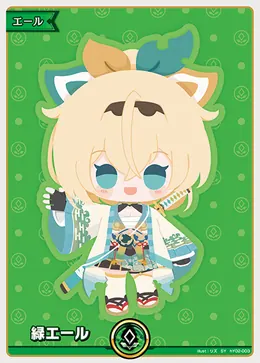
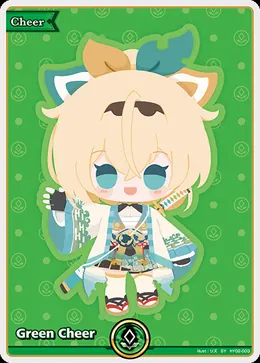
Set 2-6 missing image update
Updating of missing images

diff --git a/script.js b/script.js
@@ -1038,6 +1038,14 @@
     // From ogbajoj hOCG translation sheet — hBP02 pass, 2 gaps filled
     { number: "hBP02-016", name: "白銀ノエル", type: "ホロメン", rarity: "U", color: "白" },
     { number: "hBP02-031", name: "宝鐘マリン", type: "ホロメン", rarity: "U", color: "赤" },
+
+    // Found via image cross-reference — hBP03's own Yell reprints, missing from DB
+    { number: "hY01-004", name: "白エール", type: "エール", rarity: "SY", color: "白" },
+    { number: "hY02-003", name: "緑エール", type: "エール", rarity: "SY", color: "緑" },
+    { number: "hY03-003", name: "赤エール", type: "エール", rarity: "SY", color: "赤" },
+    { number: "hY04-003", name: "青エール", type: "エール", rarity: "SY", color: "青" },
+    { number: "hY05-003", name: "紫エール", type: "エール", rarity: "SY", color: "紫" },
+    { number: "hY06-002", name: "黄エール", type: "エール", rarity: "SY", color: "黄" },
   ];
 
     const ENGLISH_NAMES = {
@@ -1373,6 +1381,310 @@
   }
 
   const CARD_IMAGES = {
+    // Filled in from JPingu's EN-art scans — 35 previously missing Set 6 cards
+    "hBP06-031": "hBP06-031_0.webp",
+    "hBP06-044": "hBP06-044_0.webp",
+    "hBP06-095": "hBP06-095_0.webp",
+    "hBP06-072": "hBP06-072_0.webp",
+    "hBP06-073": "hBP06-073_0.webp",
+    "hBP06-006": "hBP06-006_0.webp",
+    "hBP06-091": "hBP06-091_0.webp",
+    "hBP06-074": "hBP06-074_0.webp",
+    "hBP06-049": "hBP06-049_0.webp",
+    "hBP06-103": "hBP06-103_0.webp",
+    "hBP06-056": "hBP06-056_0.webp",
+    "hBP06-086": "hBP06-086_0.webp",
+    "hBP06-051": "hBP06-051_0.webp",
+    "hBP06-028": "hBP06-028_0.webp",
+    "hBP06-042": "hBP06-042_0.webp",
+    "hBP06-055": "hBP06-055_0.webp",
+    "hBP06-050": "hBP06-050_0.webp",
+    "hBP06-075": "hBP06-075_0.webp",
+    "hBP06-077": "hBP06-077_0.webp",
+    "hBP06-030": "hBP06-030_0.webp",
+    "hBP06-029": "hBP06-029_0.webp",
+    "hBP06-043": "hBP06-043_0.webp",
+    "hBP06-102": "hBP06-102_0.webp",
+    "hBP06-045": "hBP06-045_0.webp",
+    "hBP06-047": "hBP06-047_0.webp",
+    "hBP06-048": "hBP06-048_0.webp",
+    "hBP06-005": "hBP06-005_0.webp",
+    "hBP06-053": "hBP06-053_0.webp",
+    "hBP06-101": "hBP06-101_0.webp",
+    "hBP06-054": "hBP06-054_0.webp",
+    "hBP06-088": "hBP06-088_0.webp",
+    "hBP06-082": "hBP06-082_0.webp",
+    "hBP06-052": "hBP06-052_0.webp",
+    "hBP06-076": "hBP06-076_0.webp",
+    "hBP06-008": "hBP06-008_0.webp",
+    // Filled in from JPingu's EN-art scans — 71 previously missing Set 5 cards (1 UR-rarity file skipped, out of scope)
+    "hBP05-021": "hBP05-021_0.webp",
+    "hBP05-072": "hBP05-072_0.webp",
+    "hBP05-042": "hBP05-042_0.webp",
+    "hBP05-001": "hBP05-001_0.webp",
+    "hBP05-061": "hBP05-061_0.webp",
+    "hBP05-005": "hBP05-005_0.webp",
+    "hBP05-044": "hBP05-044_0.webp",
+    "hBP05-022": "hBP05-022_0.webp",
+    "hBP05-024": "hBP05-024_0.webp",
+    "hBP05-067": "hBP05-067_0.webp",
+    "hBP05-085": "hBP05-085_0.webp",
+    "hBP05-066": "hBP05-066_0.webp",
+    "hBP05-073": "hBP05-073_0.webp",
+    "hBP05-048": "hBP05-048_0.webp",
+    "hBP05-056": "hBP05-056_0.webp",
+    "hBP05-070": "hBP05-070_0.webp",
+    "hBP05-051": "hBP05-051_0.webp",
+    "hBP05-036": "hBP05-036_0.webp",
+    "hBP05-004": "hBP05-004_0.webp",
+    "hBP05-011": "hBP05-011_0.webp",
+    "hBP05-052": "hBP05-052_0.webp",
+    "hBP05-020": "hBP05-020_0.webp",
+    "hBP05-065": "hBP05-065_0.webp",
+    "hBP05-062": "hBP05-062_0.webp",
+    "hBP05-009": "hBP05-009_0.webp",
+    "hBP05-054": "hBP05-054_0.webp",
+    "hBP05-028": "hBP05-028_0.webp",
+    "hBP05-040": "hBP05-040_0.webp",
+    "hBP05-069": "hBP05-069_0.webp",
+    "hBP05-007": "hBP05-007_0.webp",
+    "hBP05-068": "hBP05-068_0.webp",
+    "hBP05-077": "hBP05-077_0.webp",
+    "hBP05-023": "hBP05-023_0.webp",
+    "hBP05-050": "hBP05-050_0.webp",
+    "hBP05-010": "hBP05-010_0.webp",
+    "hBP05-063": "hBP05-063_0.webp",
+    "hBP05-058": "hBP05-058_0.webp",
+    "hBP05-038": "hBP05-038_0.webp",
+    "hBP05-041": "hBP05-041_0.webp",
+    "hBP05-057": "hBP05-057_0.webp",
+    "hBP05-026": "hBP05-026_0.webp",
+    "hBP05-002": "hBP05-002_0.webp",
+    "hBP05-046": "hBP05-046_0.webp",
+    "hBP05-081": "hBP05-081_0.webp",
+    "hBP05-027": "hBP05-027_0.webp",
+    "hBP05-087": "hBP05-087_0.webp",
+    "hBP05-014": "hBP05-014_0.webp",
+    "hBP05-012": "hBP05-012_0.webp",
+    "hBP05-082": "hBP05-082_0.webp",
+    "hBP05-078": "hBP05-078_0.webp",
+    "hBP05-017": "hBP05-017_0.webp",
+    "hBP05-059": "hBP05-059_0.webp",
+    "hBP05-008": "hBP05-008_0.webp",
+    "hBP05-037": "hBP05-037_0.webp",
+    "hBP05-035": "hBP05-035_0.webp",
+    "hBP05-049": "hBP05-049_0.webp",
+    "hBP05-015": "hBP05-015_0.webp",
+    "hBP05-047": "hBP05-047_0.webp",
+    "hBP05-019": "hBP05-019_0.webp",
+    "hBP05-076": "hBP05-076_0.webp",
+    "hBP05-053": "hBP05-053_0.webp",
+    "hBP05-084": "hBP05-084_0.webp",
+    "hBP05-055": "hBP05-055_0.webp",
+    "hBP05-043": "hBP05-043_0.webp",
+    "hBP05-006": "hBP05-006_0.webp",
+    "hBP05-086": "hBP05-086_0.webp",
+    "hBP05-025": "hBP05-025_0.webp",
+    "hBP05-039": "hBP05-039_0.webp",
+    "hBP05-060": "hBP05-060_0.webp",
+    "hBP05-083": "hBP05-083_0.webp",
+    "hBP05-045": "hBP05-045_0.webp",
+    // Filled in from JPingu's EN-art scans — 51 previously missing Set 4 cards
+    "hBP04-007": "hBP04-007_0.webp",
+    "hBP04-102": "hBP04-102_0.webp",
+    "hBP04-037": "hBP04-037_0.webp",
+    "hBP04-039": "hBP04-039_0.webp",
+    "hBP04-042": "hBP04-042_0.webp",
+    "hBP04-099": "hBP04-099_0.webp",
+    "hBP04-036": "hBP04-036_0.webp",
+    "hBP04-064": "hBP04-064_0.webp",
+    "hBP04-035": "hBP04-035_0.webp",
+    "hBP04-041": "hBP04-041_0.webp",
+    "hBP04-078": "hBP04-078_0.webp",
+    "hBP04-051": "hBP04-051_0.webp",
+    "hBP04-074": "hBP04-074_0.webp",
+    "hBP04-065": "hBP04-065_0.webp",
+    "hBP04-045": "hBP04-045_0.webp",
+    "hBP04-046": "hBP04-046_0.webp",
+    "hBP04-095": "hBP04-095_0.webp",
+    "hBP04-077": "hBP04-077_0.webp",
+    "hBP04-106": "hBP04-106_0.webp",
+    "hBP04-061": "hBP04-061_0.webp",
+    "hBP04-066": "hBP04-066_0.webp",
+    "hBP04-003": "hBP04-003_0.webp",
+    "hBP04-092": "hBP04-092_0.webp",
+    "hBP04-060": "hBP04-060_0.webp",
+    "hBP04-048": "hBP04-048_0.webp",
+    "hBP04-047": "hBP04-047_0.webp",
+    "hBP04-075": "hBP04-075_0.webp",
+    "hBP04-032": "hBP04-032_0.webp",
+    "hBP04-091": "hBP04-091_0.webp",
+    "hBP04-096": "hBP04-096_0.webp",
+    "hBP04-049": "hBP04-049_0.webp",
+    "hBP04-044": "hBP04-044_0.webp",
+    "hBP04-093": "hBP04-093_0.webp",
+    "hBP04-090": "hBP04-090_0.webp",
+    "hBP04-079": "hBP04-079_0.webp",
+    "hBP04-004": "hBP04-004_0.webp",
+    "hBP04-063": "hBP04-063_0.webp",
+    "hBP04-087": "hBP04-087_0.webp",
+    "hBP04-101": "hBP04-101_0.webp",
+    "hBP04-098": "hBP04-098_0.webp",
+    "hBP04-043": "hBP04-043_0.webp",
+    "hBP04-076": "hBP04-076_0.webp",
+    "hBP04-081": "hBP04-081_0.webp",
+    "hBP04-082": "hBP04-082_0.webp",
+    "hBP04-040": "hBP04-040_0.webp",
+    "hBP04-073": "hBP04-073_0.webp",
+    "hBP04-033": "hBP04-033_0.webp",
+    "hBP04-052": "hBP04-052_0.webp",
+    "hBP04-014": "hBP04-014_0.webp",
+    "hBP04-080": "hBP04-080_0.webp",
+    "hBP04-034": "hBP04-034_0.webp",
+    // Filled in from JPingu's EN-art scans — 84 previously missing Set 3 cards (incl. 6 newly-added Yell cards)
+    "hBP03-092": "hBP03-092_0.webp",
+    "hBP03-039": "hBP03-039_0.webp",
+    "hBP03-007": "hBP03-007_0.webp",
+    "hBP03-112": "hBP03-112_0.webp",
+    "hBP03-019": "hBP03-019_0.webp",
+    "hBP03-044": "hBP03-044_0.webp",
+    "hBP03-071": "hBP03-071_0.webp",
+    "hBP03-047": "hBP03-047_0.webp",
+    "hBP03-075": "hBP03-075_0.webp",
+    "hBP03-036": "hBP03-036_0.webp",
+    "hY01-004": "hY01-004_0.webp",
+    "hBP03-099": "hBP03-099_0.webp",
+    "hBP03-085": "hBP03-085_0.webp",
+    "hBP03-101": "hBP03-101_0.webp",
+    "hBP03-107": "hBP03-107_0.webp",
+    "hBP03-043": "hBP03-043_0.webp",
+    "hBP03-095": "hBP03-095_0.webp",
+    "hBP03-012": "hBP03-012_0.webp",
+    "hBP03-046": "hBP03-046_0.webp",
+    "hY05-003": "hY05-003_0.webp",
+    "hBP03-111": "hBP03-111_0.webp",
+    "hBP03-021": "hBP03-021_0.webp",
+    "hBP03-104": "hBP03-104_0.webp",
+    "hBP03-023": "hBP03-023_0.webp",
+    "hBP03-048": "hBP03-048_0.webp",
+    "hBP03-086": "hBP03-086_0.webp",
+    "hBP03-053": "hBP03-053_0.webp",
+    "hBP03-076": "hBP03-076_0.webp",
+    "hBP03-089": "hBP03-089_0.webp",
+    "hBP03-016": "hBP03-016_0.webp",
+    "hBP03-008": "hBP03-008_0.webp",
+    "hBP03-103": "hBP03-103_0.webp",
+    "hBP03-064": "hBP03-064_0.webp",
+    "hBP03-093": "hBP03-093_0.webp",
+    "hBP03-013": "hBP03-013_0.webp",
+    "hBP03-072": "hBP03-072_0.webp",
+    "hBP03-074": "hBP03-074_0.webp",
+    "hBP03-113": "hBP03-113_0.webp",
+    "hBP03-026": "hBP03-026_0.webp",
+    "hBP03-020": "hBP03-020_0.webp",
+    "hBP03-106": "hBP03-106_0.webp",
+    "hBP03-052": "hBP03-052_0.webp",
+    "hBP03-018": "hBP03-018_0.webp",
+    "hBP03-045": "hBP03-045_0.webp",
+    "hBP03-105": "hBP03-105_0.webp",
+    "hY06-002": "hY06-002_0.webp",
+    "hBP03-011": "hBP03-011_0.webp",
+    "hY04-003": "hY04-003_0.webp",
+    "hBP03-022": "hBP03-022_0.webp",
+    "hBP03-041": "hBP03-041_0.webp",
+    "hBP03-004": "hBP03-004_0.webp",
+    "hBP03-029": "hBP03-029_0.webp",
+    "hBP03-009": "hBP03-009_0.webp",
+    "hBP03-098": "hBP03-098_0.webp",
+    "hBP03-078": "hBP03-078_0.webp",
+    "hBP03-003": "hBP03-003_0.webp",
+    "hBP03-051": "hBP03-051_0.webp",
+    "hY03-003": "hY03-003_0.webp",
+    "hBP03-028": "hBP03-028_0.webp",
+    "hBP03-069": "hBP03-069_0.webp",
+    "hBP03-077": "hBP03-077_0.webp",
+    "hBP03-014": "hBP03-014_0.webp",
+    "hBP03-068": "hBP03-068_0.webp",
+    "hBP03-010": "hBP03-010_0.webp",
+    "hBP03-073": "hBP03-073_0.webp",
+    "hBP03-015": "hBP03-015_0.webp",
+    "hBP03-087": "hBP03-087_0.webp",
+    "hBP03-094": "hBP03-094_0.webp",
+    "hBP03-027": "hBP03-027_0.webp",
+    "hBP03-001": "hBP03-001_0.webp",
+    "hBP03-096": "hBP03-096_0.webp",
+    "hBP03-054": "hBP03-054_0.webp",
+    "hBP03-084": "hBP03-084_0.webp",
+    "hBP03-025": "hBP03-025_0.webp",
+    "hY02-003": "hY02-003_0.webp",
+    "hBP03-091": "hBP03-091_0.webp",
+    "hBP03-017": "hBP03-017_0.webp",
+    "hBP03-055": "hBP03-055_0.webp",
+    "hBP03-079": "hBP03-079_0.webp",
+    "hBP03-030": "hBP03-030_0.webp",
+    "hBP03-049": "hBP03-049_0.webp",
+    "hBP03-056": "hBP03-056_0.webp",
+    "hBP03-002": "hBP03-002_0.webp",
+    "hBP03-005": "hBP03-005_0.webp",
+    // Filled in from JPingu's EN-art scans — 58 previously missing Set 2 cards
+    "hBP02-069": "hBP02-069_0.webp",
+    "hBP02-016": "hBP02-016_0.webp",
+    "hBP02-042": "hBP02-042_0.webp",
+    "hBP02-068": "hBP02-068_0.webp",
+    "hBP02-037": "hBP02-037_0.webp",
+    "hBP02-083": "hBP02-083_0.webp",
+    "hBP02-096": "hBP02-096_0.webp",
+    "hBP02-013": "hBP02-013_0.webp",
+    "hBP02-072": "hBP02-072_0.webp",
+    "hBP02-004": "hBP02-004_0.webp",
+    "hBP02-044": "hBP02-044_0.webp",
+    "hBP02-047": "hBP02-047_0.webp",
+    "hBP02-073": "hBP02-073_0.webp",
+    "hBP02-014": "hBP02-014_0.webp",
+    "hBP02-065": "hBP02-065_0.webp",
+    "hBP02-091": "hBP02-091_0.webp",
+    "hBP02-082": "hBP02-082_0.webp",
+    "hBP02-052": "hBP02-052_0.webp",
+    "hBP02-090": "hBP02-090_0.webp",
+    "hBP02-005": "hBP02-005_0.webp",
+    "hBP02-075": "hBP02-075_0.webp",
+    "hBP02-093": "hBP02-093_0.webp",
+    "hBP02-071": "hBP02-071_0.webp",
+    "hBP02-045": "hBP02-045_0.webp",
+    "hBP02-017": "hBP02-017_0.webp",
+    "hBP02-085": "hBP02-085_0.webp",
+    "hBP02-041": "hBP02-041_0.webp",
+    "hBP02-046": "hBP02-046_0.webp",
+    "hBP02-043": "hBP02-043_0.webp",
+    "hBP02-102": "hBP02-102_0.webp",
+    "hBP02-081": "hBP02-081_0.webp",
+    "hBP02-011": "hBP02-011_0.webp",
+    "hBP02-066": "hBP02-066_0.webp",
+    "hBP02-031": "hBP02-031_0.webp",
+    "hBP02-100": "hBP02-100_0.webp",
+    "hBP02-008": "hBP02-008_0.webp",
+    "hBP02-089": "hBP02-089_0.webp",
+    "hBP02-060": "hBP02-060_0.webp",
+    "hBP02-097": "hBP02-097_0.webp",
+    "hBP02-053": "hBP02-053_0.webp",
+    "hBP02-049": "hBP02-049_0.webp",
+    "hBP02-092": "hBP02-092_0.webp",
+    "hBP02-010": "hBP02-010_0.webp",
+    "hBP02-078": "hBP02-078_0.webp",
+    "hBP02-036": "hBP02-036_0.webp",
+    "hBP02-001": "hBP02-001_0.webp",
+    "hBP02-070": "hBP02-070_0.webp",
+    "hBP02-087": "hBP02-087_0.webp",
+    "hBP02-006": "hBP02-006_0.webp",
+    "hBP02-051": "hBP02-051_0.webp",
+    "hBP02-067": "hBP02-067_0.webp",
+    "hBP02-015": "hBP02-015_0.webp",
+    "hBP02-074": "hBP02-074_0.webp",
+    "hBP02-050": "hBP02-050_0.webp",
+    "hBP02-012": "hBP02-012_0.webp",
+    "hBP02-076": "hBP02-076_0.webp",
+    "hBP02-009": "hBP02-009_0.webp",
+    "hBP02-099": "hBP02-099_0.webp",
     // Filled in from JPingu's EN-art scans — 76 previously missing Set 1 cards
     "hBP01-032": "hBP01-032_0.webp",
     "hBP01-019": "hBP01-019_0.webp",
